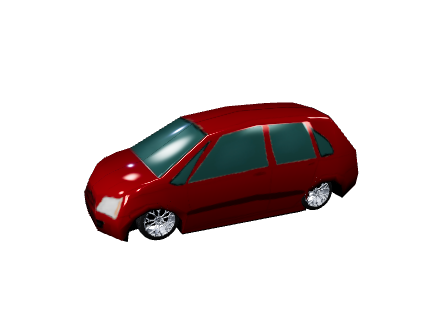
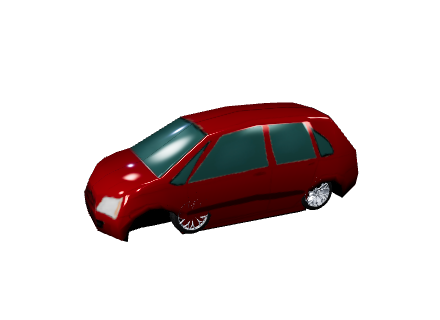
fix(3d): recule les roues avant (retrait avant/arrière séparés) -> mieux calées
Les roues avant sortaient vers le pare-chocs sur tous les gabarits : le porte-à-faux
avant de ces modèles est plus long que l'arrière. Retraits désormais séparés :
avant à 31% depuis l'avant (+Z), arrière à 19% depuis l'arrière. Diagnostiqué par
captures d'écran sur 6 gabarits (citadine, berline, SUV, van, coupé, compacte) :
roues avant désormais bien dans les passages sur tous. Vignettes des 16 régénérées.

Changed region(s): [[0.2955, 0.6562, 0.5023, 0.75], [0.4136, 0.625, 0.4432, 0.6562]]

diff --git a/public/pos/pos-car3d.js b/public/pos/pos-car3d.js
@@ -432,8 +432,8 @@
       target = target || model;
       model.updateMatrixWorld(true);
       var b = new THREE.Box3().setFromObject(model), s = b.getSize(new THREE.Vector3()), c = b.getCenter(new THREE.Vector3());
-      var r = Math.min(s.y * 0.42, s.z * 0.072), wx = s.x * 0.42, IN = 0.19;         // rayon ~7% de la longueur
-      var fz = b.max.z - IN * s.z, rz = b.min.z + IN * s.z;                          // roues calées depuis les EXTRÉMITÉS (porte-à-faux asymétriques)
+      var r = Math.min(s.y * 0.42, s.z * 0.072), wx = s.x * 0.42, FIN = 0.31, RIN = 0.19;  // rayon ~7% de la longueur
+      var fz = b.max.z - FIN * s.z, rz = b.min.z + RIN * s.z;                        // avant (+Z) reculé (porte-à-faux avant plus long) ; arrière depuis l'arrière
       var tireMat = track(new THREE.MeshStandardMaterial({ color: 0x0e0f12, roughness: 0.85, metalness: 0.2, side: THREE.DoubleSide }));
       var rimMat = track(new THREE.MeshStandardMaterial({ color: 0xb9bfc9, roughness: 0.35, metalness: 0.9, envMapIntensity: 1.2, side: THREE.DoubleSide })); // jante gris métallique
       var slots = [[-wx, fz], [wx, fz], [-wx, rz], [wx, rz]];

diff --git a/public/hud3d-map.html b/public/hud3d-map.html
@@ -2160,8 +2160,8 @@ var CAR_GLB_URL = 'car-real.glb';   // Maybach Blender glTF (vrais materiaux/pei
     target = target || model;                       // dimensionne d'après model, ajoute à target (wrapper sans rotation)
     model.updateMatrixWorld(true);
     var b=new T.Box3().setFromObject(model), s=b.getSize(new T.Vector3()), c=b.getCenter(new T.Vector3());
-    var r=Math.min(s.y*0.42, s.z*0.072), wx=s.x*0.42, IN=0.19;      // rayon ~7% de la longueur
-    var fz=b.max.z-IN*s.z, rz=b.min.z+IN*s.z;                       // roues calées depuis les EXTRÉMITÉS
+    var r=Math.min(s.y*0.42, s.z*0.072), wx=s.x*0.42, FIN=0.31, RIN=0.19;  // rayon ~7% de la longueur
+    var fz=b.max.z-FIN*s.z, rz=b.min.z+RIN*s.z;                     // avant (+Z) reculé (porte-à-faux avant plus long) ; arrière depuis l'arrière
     var tireMat=new T.MeshStandardMaterial({color:0x0e0f12, roughness:0.85, metalness:0.2, side:T.DoubleSide});
     var rimMat=new T.MeshStandardMaterial({color:0xb9bfc9, roughness:0.35, metalness:0.9, envMapIntensity:1.2, side:T.DoubleSide}); // jante gris métallique
     var slots=[[-wx,fz],[wx,fz],[-wx,rz],[wx,rz]];
